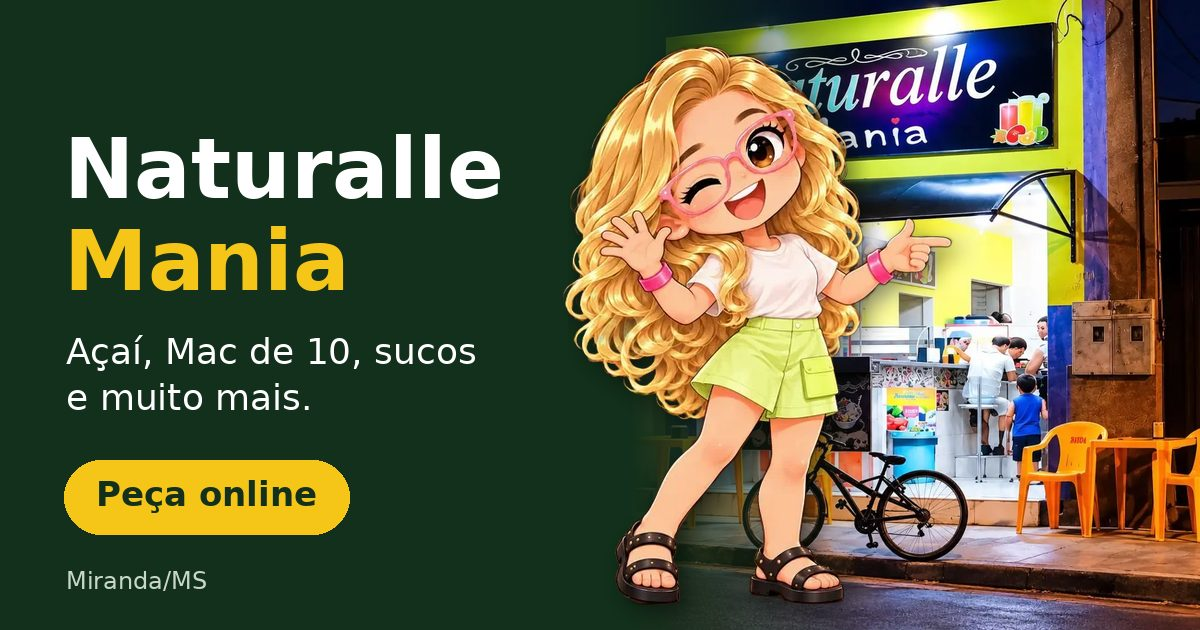
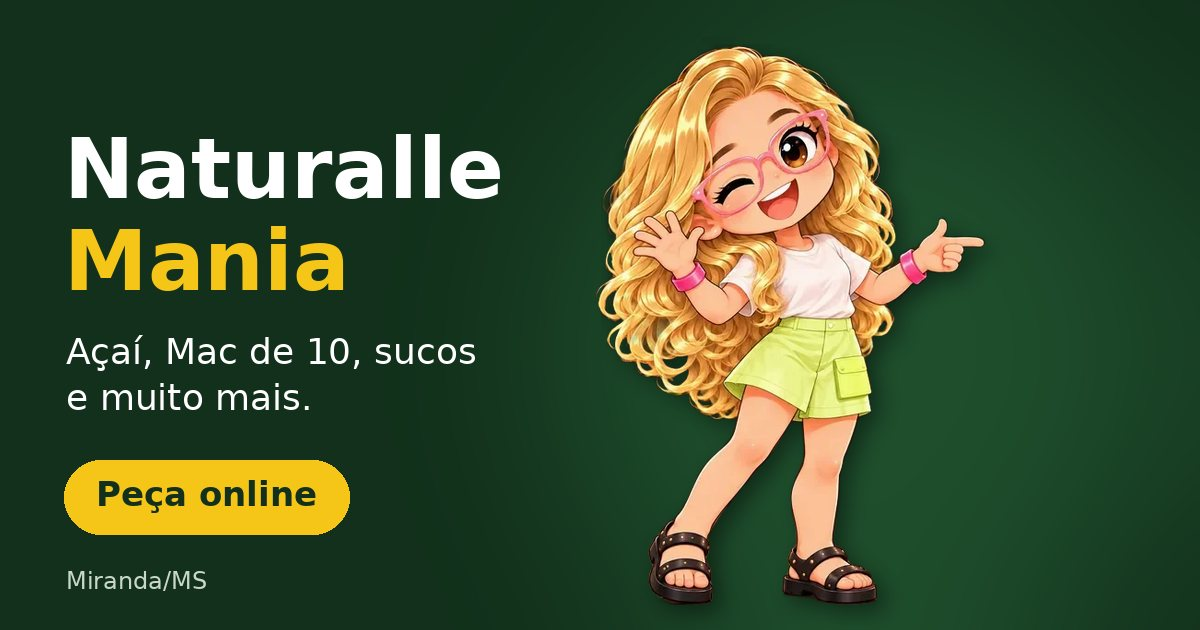
Imagem do link: sem a foto do estabelecimento
A pedido do dono, o fundo agora é só o verde da loja com um brilho suave
atrás da Manu, sem a foto da fachada. Imagem mais leve (73 KB).

Claude-Session: https://claude.ai/code/session_014NNejNS4kZRhMttMpd9uCx

diff --git a/site/public/index.html b/site/public/index.html
@@ -18,7 +18,7 @@
 <meta property="og:image:type" content="image/jpeg">
 <meta property="og:image:width" content="1200">
 <meta property="og:image:height" content="630">
-<meta property="og:image:alt" content="Fachada da {{NOME}} com a Manu">
+<meta property="og:image:alt" content="Manu, mascote da {{NOME}}, com o nome da loja">
 <meta name="twitter:card" content="summary_large_image">
 <!-- ícone e "instalar" na tela do celular -->
 <link rel="icon" type="image/png" sizes="32x32" href="/img/favicon-32.png">

diff --git a/README.md b/README.md
@@ -142,7 +142,7 @@ loja), depois de 6 mensagens em 30 segundos ela para de responder àquele númer
 recebe um aviso.
 
 ### Link do cardápio no WhatsApp e app no celular
-- Ao mandar o link do cardápio no WhatsApp (conversa, grupo ou Status), aparece a **foto da loja com a Manu**, o nome e a frase da loja
+- Ao mandar o link do cardápio no WhatsApp (conversa, grupo ou Status), aparece a **imagem da Manu com o nome da loja**, o nome e a frase da loja
   (editados em Administração › Loja). A foto é `site/public/img/compartilhar.jpg` (1200×630). Para trocar, use outra imagem do mesmo tamanho e com menos de 300 KB.
 - Para a foto sair, o site precisa do endereço com **https**. Se o link aparecer sem foto, preencha o **Endereço do site** (com https) em Administração › Loja.
 - O WhatsApp guarda a prévia de um link por um tempo. Depois de mudar foto ou frase, teste com o link terminando em `/?v=2`.
